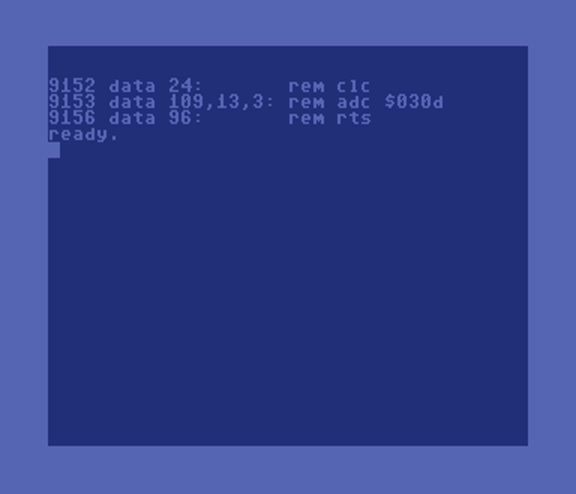
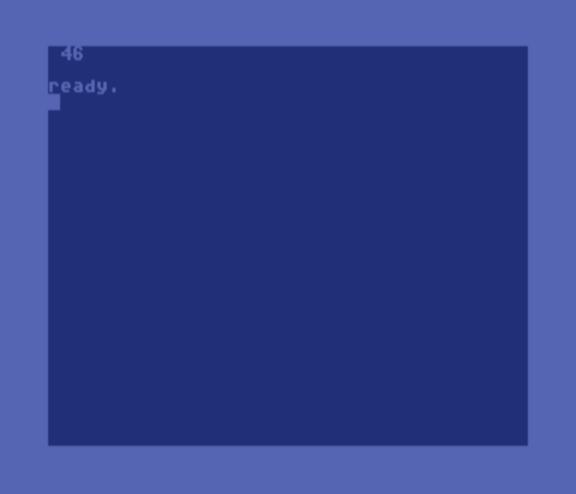
Cleanup of various items.

Changed region(s): [[0.0625, 0.1518, 0.4688, 0.334], [0.5, 0.1518, 0.7812, 0.2733], [0.0938, 0.0911, 0.1562, 0.1215]]

diff --git a/basicportfolio/machine-code.html b/basicportfolio/machine-code.html
@@ -50,7 +50,11 @@
                         </div>
                         <div class="mySlides">
                             <div class="numbertext">3/3</div>
-                            <img class="slide-img" src="images/prg-images/machine-code-3.png" alt="Revised (shortened) machine code.">
+                            <img class="slide-img" src="images/prg-images/machine-code-3.png" alt="Execution of revised machine code.">
+                        </div>
+                        <div class="mySlides">
+                            <div class="numbertext">3/3</div>
+                            <img class="slide-img" src="images/prg-images/machine-code-4.png" alt="Revised (shortened) machine code.">
                         </div>
                         <!-- Next/previous controls -->
                         <a class="prev" onclick="plusSlides(-1)">&lt;</a>
@@ -86,20 +90,21 @@
             </div>
             <div class="program-comments">
                 <p>The goal is to have a piece of machine code execute from within the language you are programming in. This was done all the time on the Commodore 64 to provide much faster processing within BASIC programs. This example simply has the machine code add two numbers and place the result in a memory location which is later read and displayed to the screen.</p>
+                <p>This program reserves memory locations 8192, 8193, and 8194 (hex $2000, $2001, and $2002) for transferring the operands and result from BASIC to the machine code and back again.</p>
             </div>
-
             <div class="listing-title">
                 <h2>Alternate Solution</h2>
             </div>
             <div class="listing-screenshots">
                 <img class="listing-img" onclick="openModal();currentSlide(3)" src="images/prg-images/machine-code-3.png" alt="Screenshot of program execution">
+                <img class="listing-img" onclick="openModal();currentSlide(4)" src="images/prg-images/machine-code-4.png" alt="Screenshot of program execution">
             </div>
             <div class="listing-code">
                 <pre>10 print chr$(147);
 15 ml=49152
 20 if peek(ml)&lt;&gt;24 and peek(ml+4)&lt;&gt;96 then gosub 100
-30 poke 780,12:rem a register argument
-35 poke 781,7:rem x register argument
+30 poke 780,44:rem a register argument
+35 poke 781,2:rem x register argument
 40 sys 49152
 45 a=peek(780):print a
 50 end
@@ -113,9 +118,9 @@
 9156 data 96:       rem rts</pre>
             </div>
             <div class="program-comments">
-                <p>After some research (possibly when watching one of Robin Harbon's videos) I realized that Commodore BASIC has dedicated memory locations that allow the programmer to preset CPU register values for when the SYS command is executed. When the machine code returns control to BASIC, the registers are then unloaded into these same memory values, making a convenient pipleline for passing parameters.</p>
-                <p>In this example, whatever value is in location 780 will be loaded into the <b>.A</b> register (acumulator), and the value in location in 781 is loaded into the <b>.X</b> register. With the registers pre-loaded at this point, the machine code only needs to clear the carry flag and perform the "Add with Carry" (ADC) operation, which puts the result in the <b>.A</b> register.</p>
-                <p>On exit, the value is then transferred back to location 780 for reading by BASIC.</p>
+                <p>After some research (possibly when watching one of Robin Harbon's videos) I realized that Commodore BASIC has dedicated memory locations that allow the programmer to preset CPU register values for when the SYS command is executed. When the machine code returns control to BASIC, the registers are then automatically unloaded into these same memory values, making a convenient pipleline for passing parameters.</p>
+                <p>In this example, the machine code resides at location 49152 ($C000). Whatever value is in location 780 will be loaded into the <b>.A</b> register (acumulator). The value in location in 781 is loaded into the <b>.X</b> register, even though the <b>.X</b> register isn't used in the operation. The machine code only needs to clear the carry flag and perform the "Add with Carry" (ADC) operation with location 781 ($030D), which puts the result back in the <b>.A</b> register.</p>
+                <p>On exit, the value is then transferred back to location 780 and can be read there by BASIC in line 45.</p>
             </div>
         </main>
 

diff --git a/basicportfolio/24-game.html b/basicportfolio/24-game.html
@@ -211,7 +211,9 @@
             </div>
             <div class="program-comments">
                 <p>You are given four random digits ranging from 1 through 9. Your goal is to use arithmetic operations (add, subtract, multiply, and divide) along with parentheses to make the resulting value equal 24.</p>
-                <p>The ZX Spectrum solution takes advantage of a feature not available on the Commodore 64: the VAL() function&mdash;which is used to convert numbers in strings into actual numeric values in Spectrum's BASIC is able to parse mathmaetcal expressions in addition to digits found within a string. The Commodore BASIC VAL() function looks only for numeric expressions, and the instant it encounters a non-digit character, it quits evaluating the string.After much thought, I decided to get the C64's BASIC interpreter to do the work of evaluating the expression. but I found my own solution that I thought was pretty clever, and this became my first self-modifying BASIC program.</p>
+                <p>The ZX Spectrum solution takes advantage of a feature not available on the Commodore 64: the VAL() function&mdash;which is used to convert numbers in strings into actual numeric values in Spectrum's BASIC is able to parse mathmaetcal expressions in addition to digits found within a string. Example: A=VAL("3+2+(4*4)") would set A equal to 29.</p>
+                <p>The Commodore BASIC VAL() function looks only for numeric expressions, and the instant it encounters a non-digit character, it quits evaluating the string. The same example sets A equal to the value of 3.</p>
+                <p>After much thought, I decided to get the C64's BASIC interpreter to do the work of evaluating the expression. I think my solution is pretty clever, and this became my first self-modifying BASIC program.</p>
             </div>
         </main>
 

diff --git a/basicportfolio/styles/style.css b/basicportfolio/styles/style.css
@@ -223,8 +223,6 @@ nav a:hover {
 
 .program-pic img {
     width: 100%;
-    transform: scaleX(0.9);
-    /* padding-top: 3.5em; */
 }
 
 .program-description {
@@ -246,20 +244,15 @@ nav a:hover {
 
 .program-screenshots img {
     min-width: 480px;
-    /* transform: scaleX(0.75); */
     margin-bottom: 1em;
 }
              
-
-
 #listing-grid {
     display: grid;
     grid-template-columns: 1fr 2fr 1fr;
     grid-column-gap: 1em;
     grid-auto-rows: max-content;
-    justify-items: center;
-    
-    
+    justify-items: center;    
 }
 
 .column-header {
@@ -289,7 +282,7 @@ nav a:hover {
 }
 
 
-.listing-img:hover, .listing-img-top:hover, .listing-img-bottom:hover {
+.listing-img:hover {
     transform-origin: center left;
     position: relative;
     transform: scale(1.25);

diff --git a/basicportfolio/count-change.html b/basicportfolio/count-change.html
@@ -27,7 +27,8 @@
 
         <main id="listing-grid">
             <div class="listing-title">
-                <h1>Count Change - October 8, 2019</h1>
+                <h1>Count Change</h1>
+                <h2>October 8, 2019</h1>
             </div>
             <div class="column-header"><h3>Screen Shots</h3></div>
             <div class="column-header"><h3>Program Listing</h3></div>

diff --git a/basicportfolio/here-come-da-judge.html b/basicportfolio/here-come-da-judge.html
@@ -27,7 +27,8 @@
 
         <main id="listing-grid">
             <div class="listing-title">
-                <h1>Here Come Da Judge - 1988-1989</h1>
+                <h1>Here Come Da Judge</h1>
+                <h2>1988-1989</h2>
             </div>
             <div class="column-header"><h3>Screen Shots</h3></div>
             <div class="column-header"><h3>Program Listing</h3></div>

diff --git a/basicportfolio/railroad-roster.html b/basicportfolio/railroad-roster.html
@@ -27,7 +27,8 @@
 
         <main id="listing-grid">
             <div class="listing-title">
-                <h1>Railroad Roster - 1991</h1>
+                <h1>Railroad Roster</h1>
+                <h2>1991</h2>
             </div>
             <div class="column-header"><h3>Screen Shots</h3></div>
             <div class="column-header"><h3>Program Listing</h3></div>

diff --git a/basicportfolio/gypsy-fortune.html b/basicportfolio/gypsy-fortune.html
@@ -27,7 +27,8 @@
 
         <main id="listing-grid">
             <div class="listing-title">
-                <h1>Gypsy Fortune - 1986</h1>
+                <h1>Gypsy Fortune</h1>
+                <h2>1986</h2>
             </div>
             <div class="column-header"><h3>Screen Shots</h3></div>
             <div class="column-header"><h3>Program Listing</h3></div>

diff --git a/basicportfolio/screen-change.html b/basicportfolio/screen-change.html
@@ -27,7 +27,8 @@
 
         <main id="listing-grid">
             <div class="listing-title">
-                <h1>Screen Change - 1983</h1>
+                <h1>Screen Change</h1>
+                <h2>1983</h2>
             </div>
             <div class="column-header"><h3>Screen Shots</h3></div>
             <div class="column-header"><h3>Program Listing</h3></div>

diff --git a/basicportfolio/e-bits!.html b/basicportfolio/e-bits!.html
@@ -27,7 +27,8 @@
 
         <main id="listing-grid">
             <div class="listing-title">
-                <h1>E-Bits! - 1987-1988</h1>
+                <h1>E-Bits!</h1>
+                <h2>1987-1988</h2>
             </div>
             <div class="column-header"><h3>Screen Shots</h3></div>
             <div class="column-header"><h3>Program Listing</h3></div>

diff --git a/basicportfolio/prediction.html b/basicportfolio/prediction.html
@@ -27,7 +27,8 @@
 
         <main id="listing-grid">
             <div class="listing-title">
-                <h1>Prediction - 1985</h1>
+                <h1>Prediction</h1>
+                <h2>1985</h2>
             </div>
             <div class="column-header"><h3>Screen Shots</h3></div>
             <div class="column-header"><h3>Program Listing</h3></div>

diff --git a/basicportfolio/robeep.html b/basicportfolio/robeep.html
@@ -27,7 +27,8 @@
 
         <main id="listing-grid">
             <div class="listing-title">
-                <h1>Robeep - 1985</h1>
+                <h1>Robeep</h1>
+                <h2>1985</h2>
             </div>
             <div class="column-header"><h3>Screen Shots</h3></div>
             <div class="column-header"><h3>Program Listing</h3></div>

diff --git a/basicportfolio/TEMPLATE.html b/basicportfolio/TEMPLATE.html
@@ -27,7 +27,8 @@
 
         <main id="listing-grid">
             <div class="listing-title">
-                <h1>Job - 1982</h1>
+                <h1>TEMPLATE</h1>
+                <h2>1982</h2>
             </div>
             <div class="column-header"><h3>Screen Shots</h3></div>
             <div class="column-header"><h3>Program Listing</h3></div>
